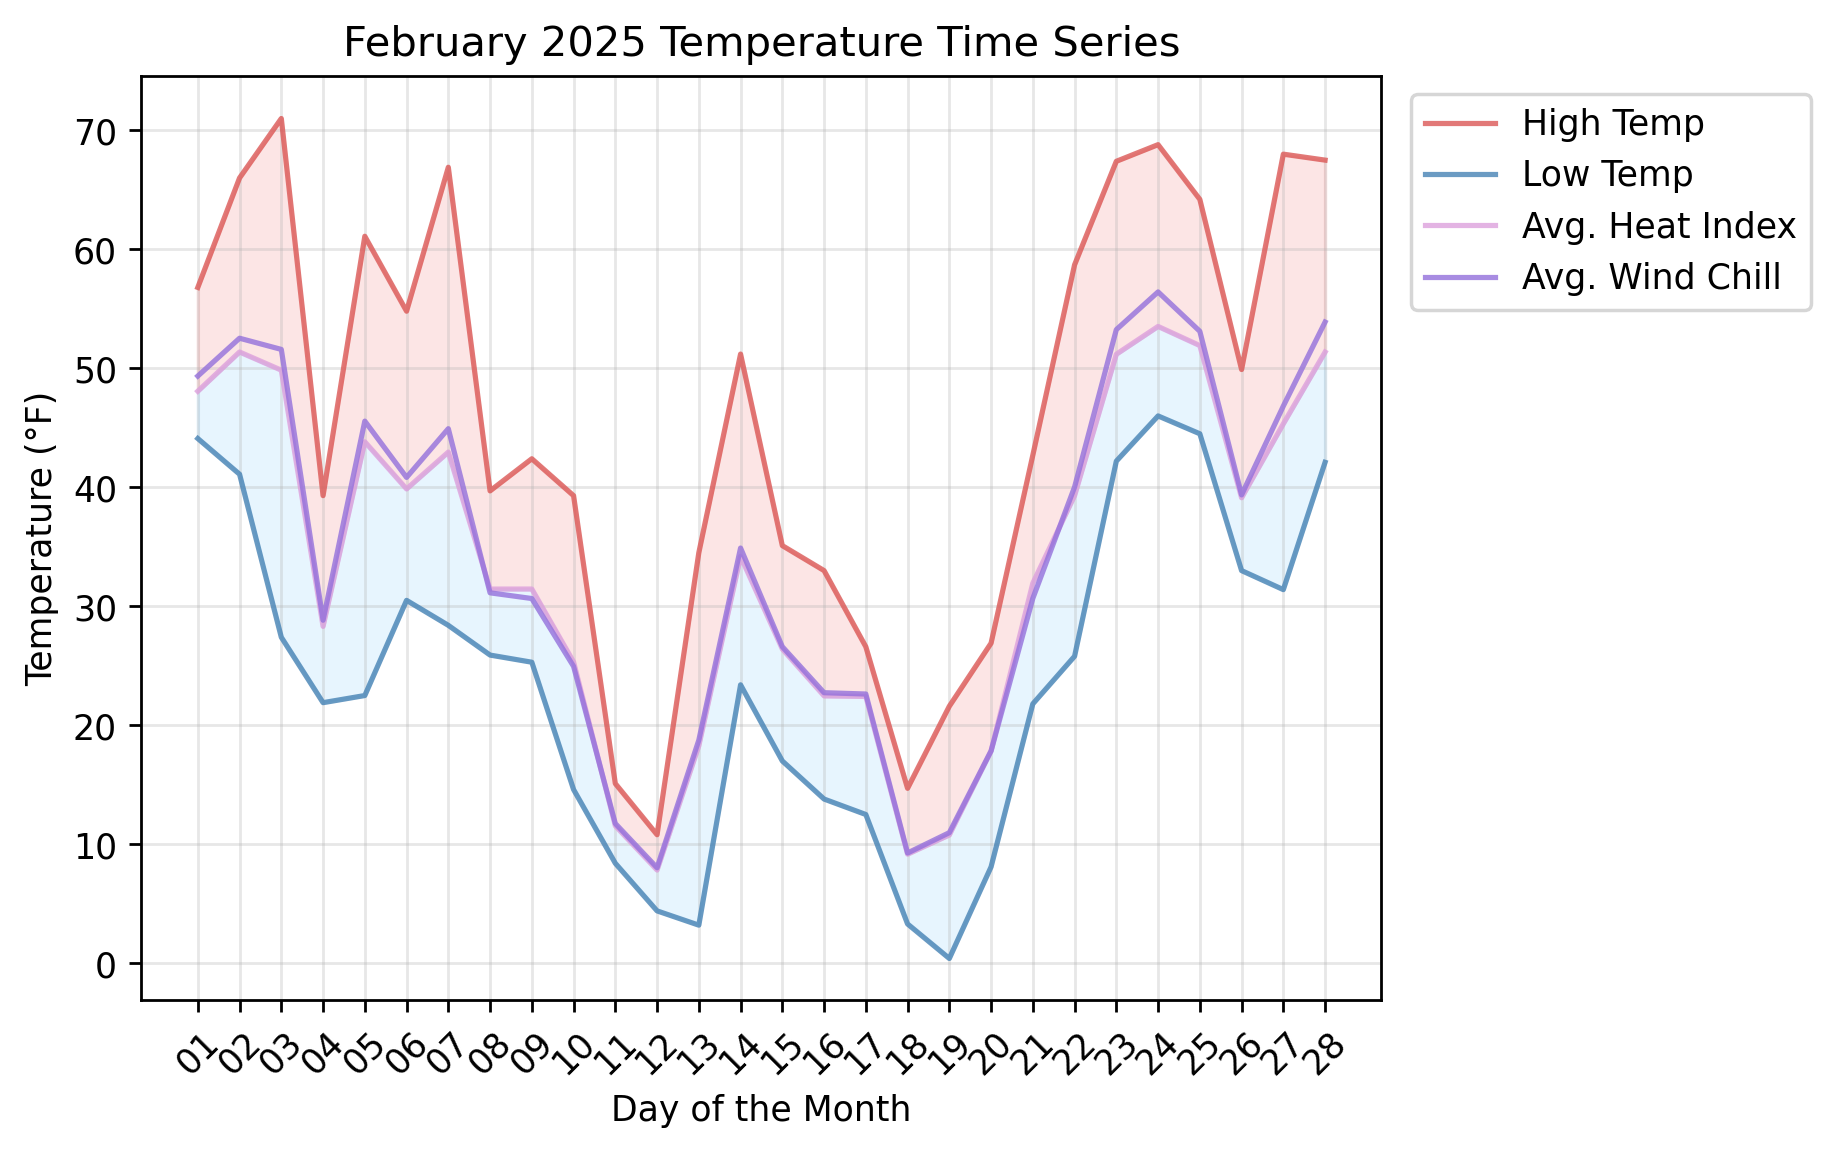
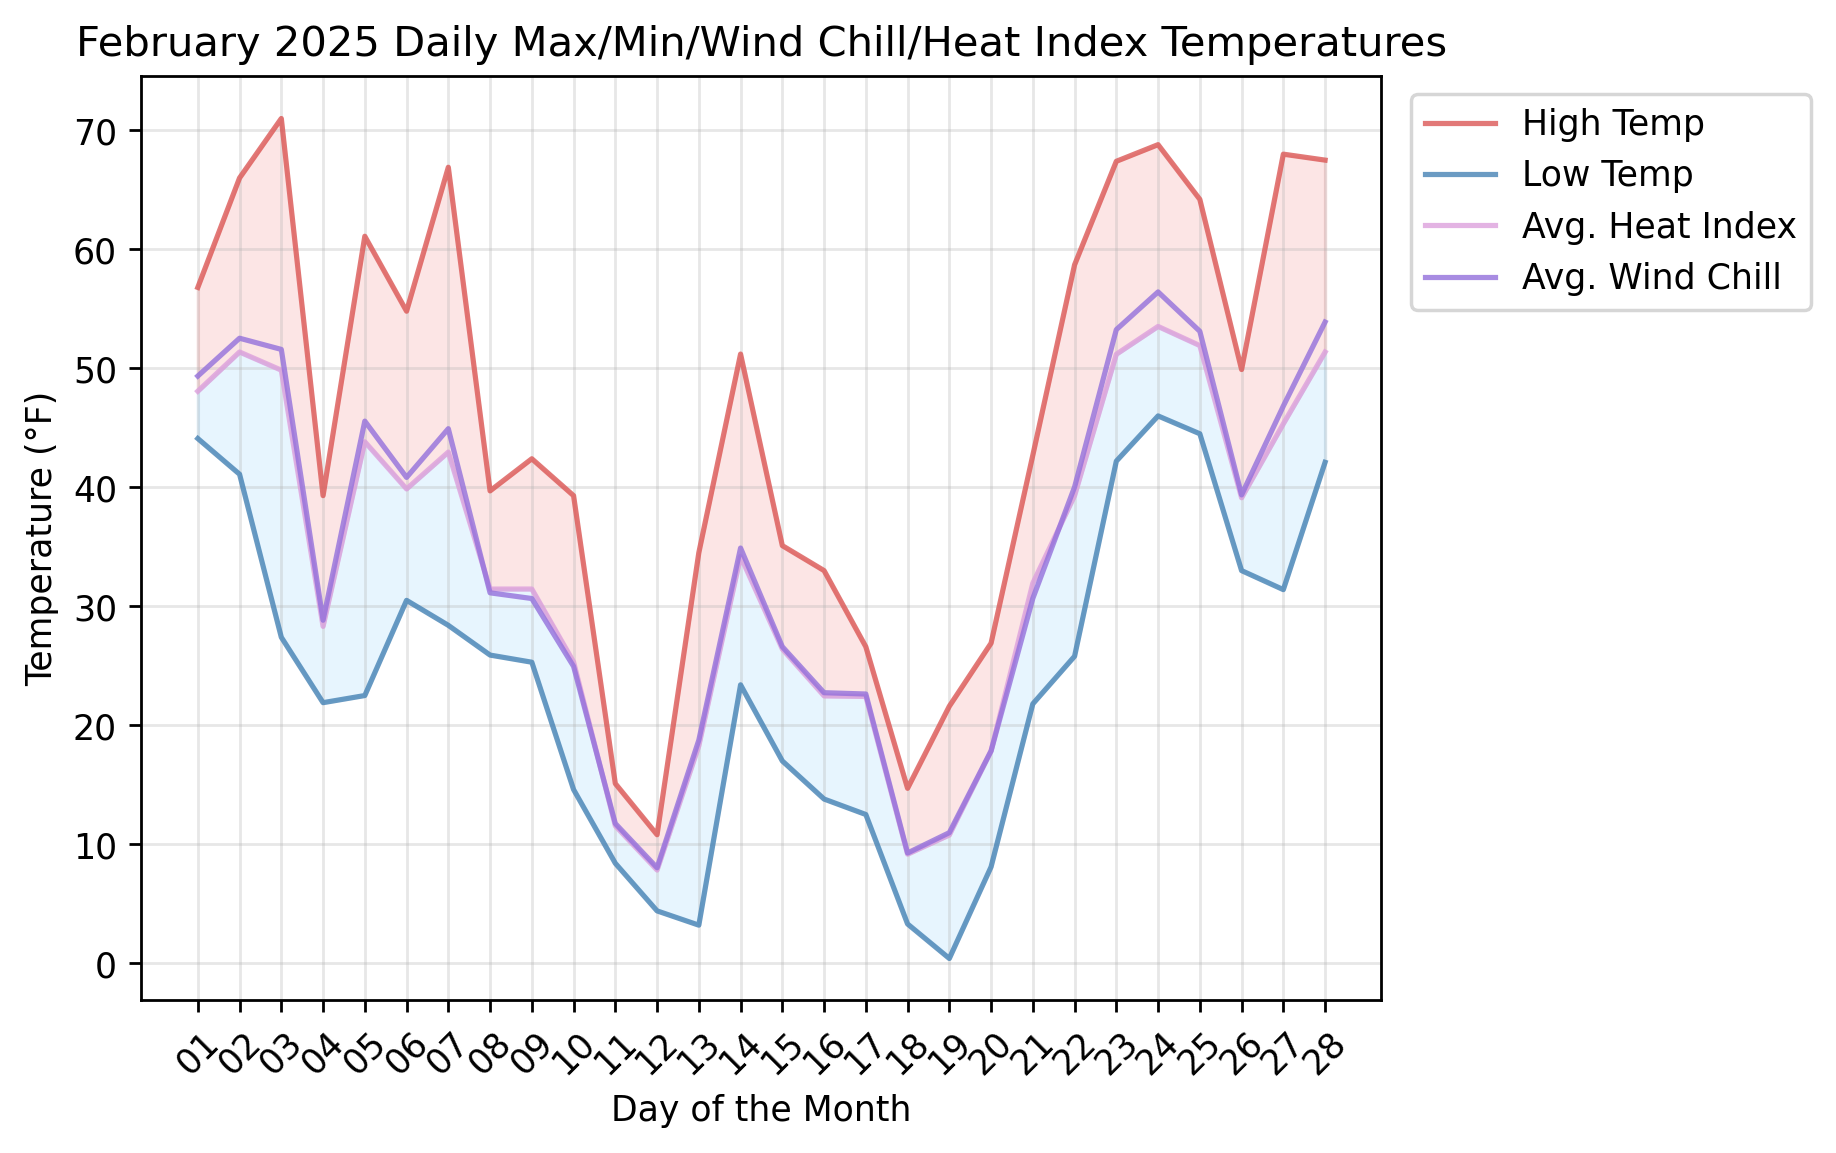
Finalised Graph

Changed region(s): [[0.031, 0.0, 0.7761, 0.0624]]

diff --git a/sundowner_plotting/main.py b/sundowner_plotting/main.py
@@ -47,7 +47,7 @@ ax.plot(days, daily_stats[0,:].transpose(), alpha=0.8, color='xkcd:pastel red')
 ax.plot(days, daily_stats[1,:].transpose(), alpha=0.8, color='steelblue')
 ax.plot(days, daily_stats[3,:].transpose(), alpha=0.8, color='plum')
 ax.plot(days, daily_stats[4,:].transpose(), alpha=0.8, color='mediumpurple')
-plt.title('February 2025 Temperature Time Series')
+plt.title('February 2025 Daily Max/Min/Wind Chill/Heat Index Temperatures')
 plt.xticks(rotation=45)
 plt.xlabel('Day of the Month')
 plt.ylabel('Temperature (°F)')
